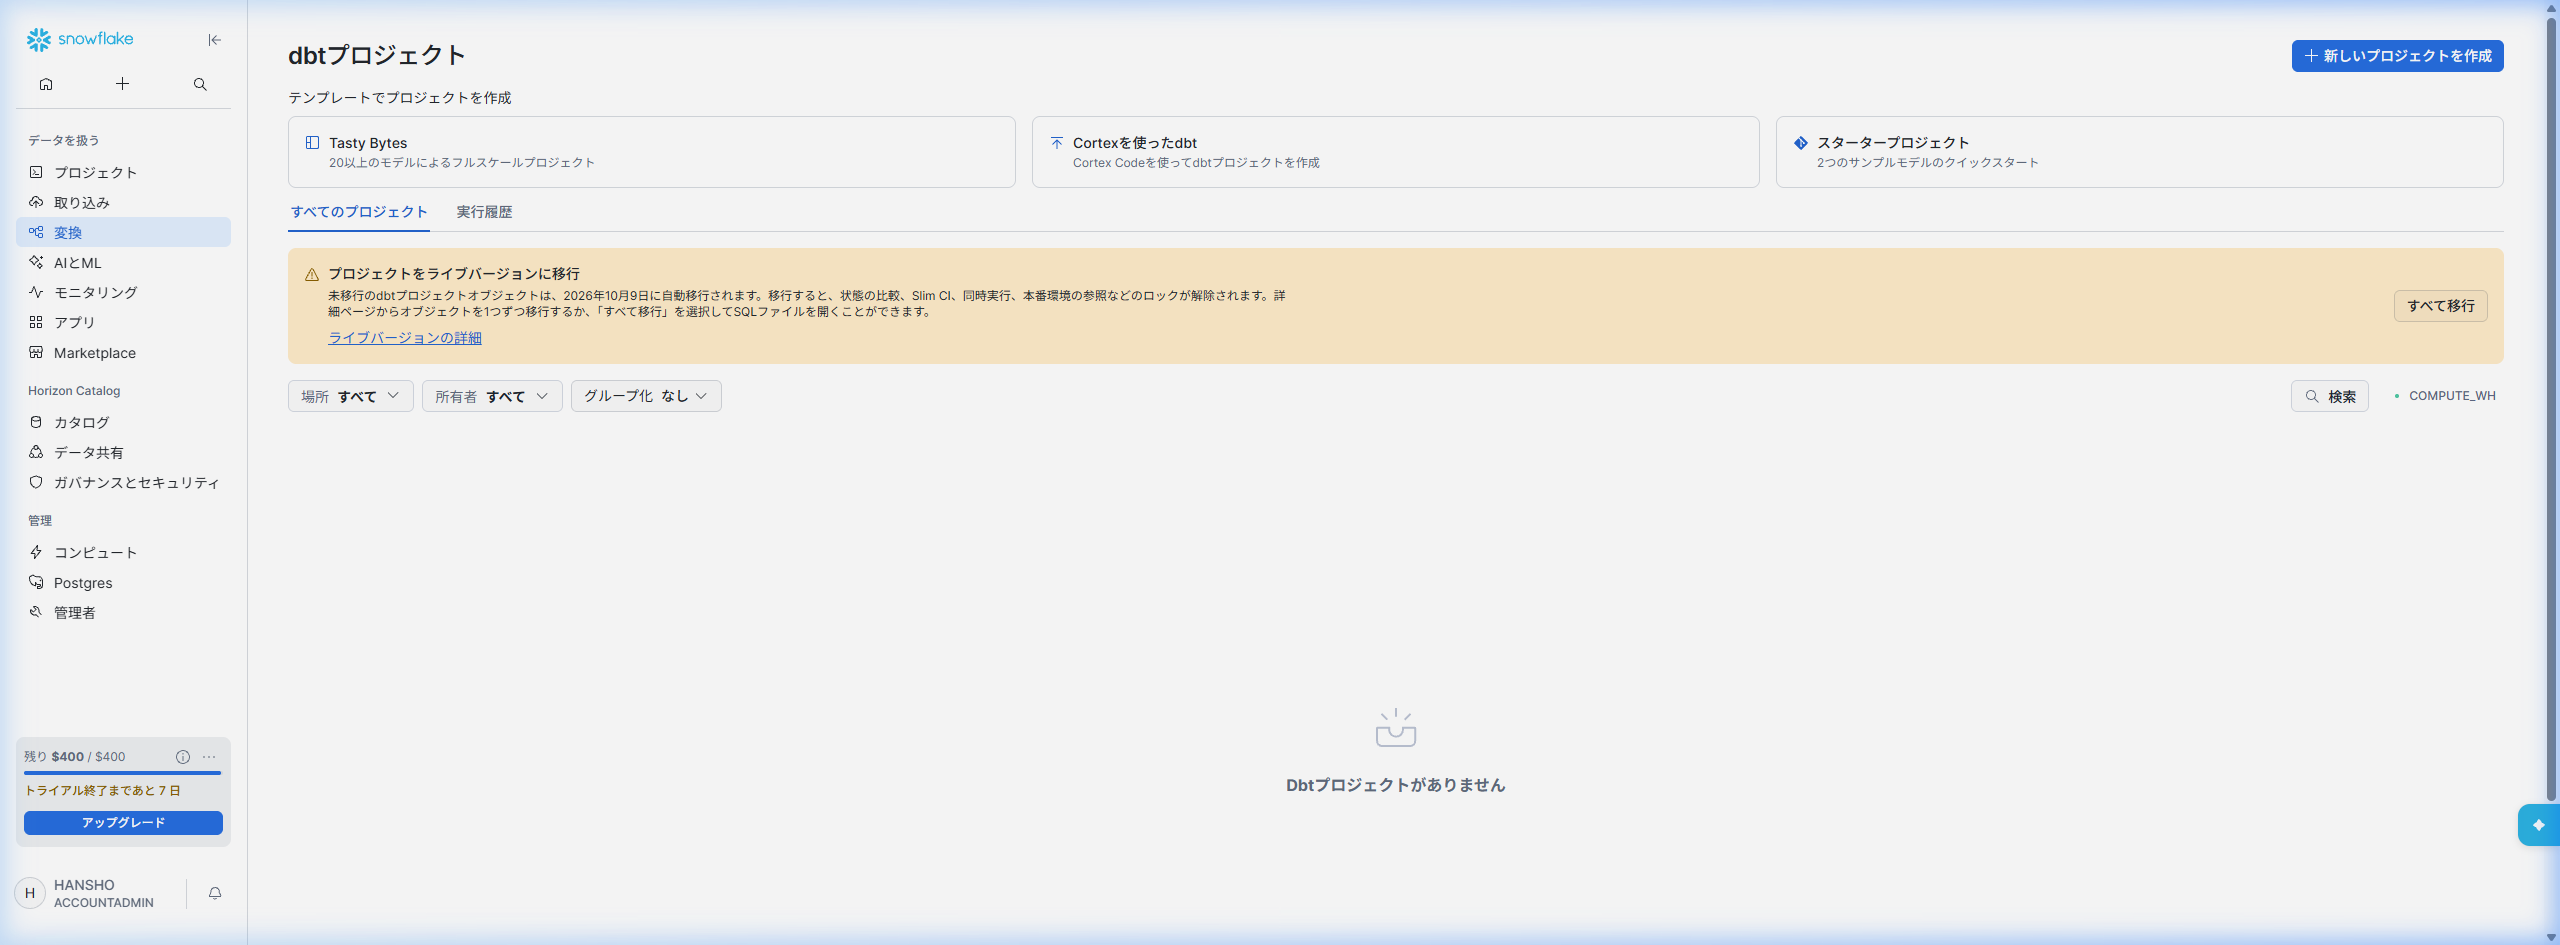
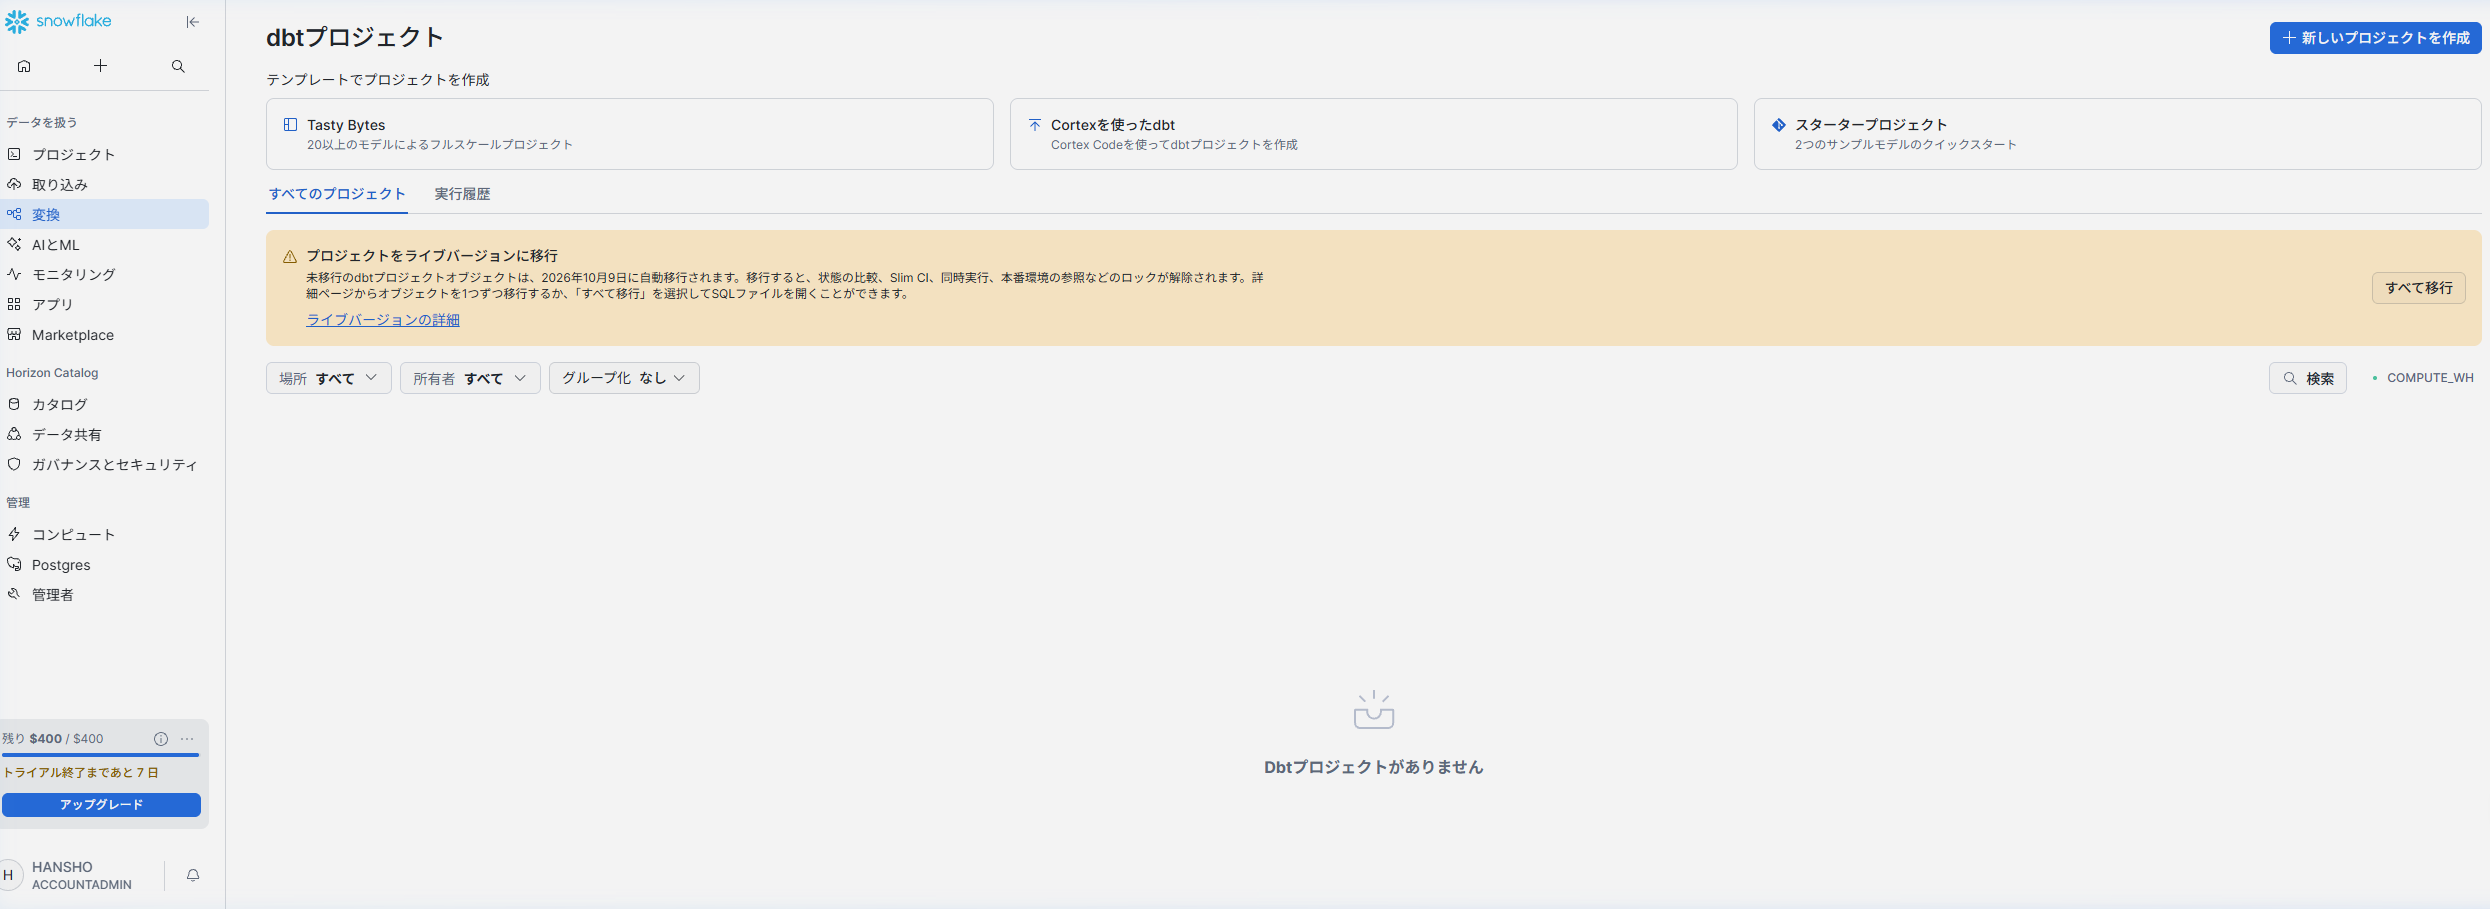
style(docs): clean edge glow and Copilot widget across all chapter 01 screenshots

diff --git a/scripts/clean_screenshots.py b/scripts/clean_screenshots.py
@@ -1,0 +1,68 @@
+"""
+clean_screenshots.py - Automatically cleans Edge Page Context Halo (glow) and Copilot Action Widget from screenshots.
+"""
+import os
+import shutil
+from PIL import Image
+
+AFFECTED_IMAGES = [
+    '01_cat_01_ingestion.png',
+    '01_cat_02_transformation.png',
+    '01_cat_03_ai_ml.png',
+    '01_cat_04_monitoring.png',
+    '01_cat_05_data_sharing.png',
+    '01_cat_06_governance.png',
+    '01_cat_07_compute.png',
+    '01_cat_08_admin.png',
+    '01_img_03.png',
+    '01_img_08.png',
+    '01_img_09.png',
+    '01_img_10.png',
+    '01_img_11.png',
+    '01_img_12.png',
+    '01_img_13.png',
+    '01_img_14.png',
+    '01_img_15.png',
+    '01_img_16.png',
+    '01_img_17.png',
+    '01_img_18.png',
+    '01_img_19.png',
+    '01_img_20.png',
+    '01_img_21.png',
+]
+
+def clean_all(images_dir='docs/images', backup_dir='docs/images/.backup'):
+    os.makedirs(backup_dir, exist_ok=True)
+    results = []
+
+    for name in AFFECTED_IMAGES:
+        file_path = os.path.join(images_dir, name)
+        if not os.path.exists(file_path):
+            continue
+
+        # Backup original
+        backup_path = os.path.join(backup_dir, name)
+        if not os.path.exists(backup_path):
+            shutil.copy2(file_path, backup_path)
+
+        # Open and crop
+        with Image.open(file_path) as im:
+            w, h = im.size
+            if w >= 2500:
+                crop_box = (22, 18, w - 48, h - 18)
+            elif w >= 1400:
+                crop_box = (20, 16, w - 46, h - 16)
+            else:
+                crop_box = (16, 14, w - 54, h - 14)
+
+            cropped = im.crop(crop_box)
+            cropped.save(file_path, format='PNG', optimize=True)
+            cw, ch = cropped.size
+
+        results.append((name, (w, h), (cw, ch)))
+        print(f"[CLEANED] {name}: {w}x{h} -> {cw}x{ch}")
+
+    print(f"\nSuccessfully cleaned {len(results)} images.")
+
+if __name__ == '__main__':
+    clean_all()
